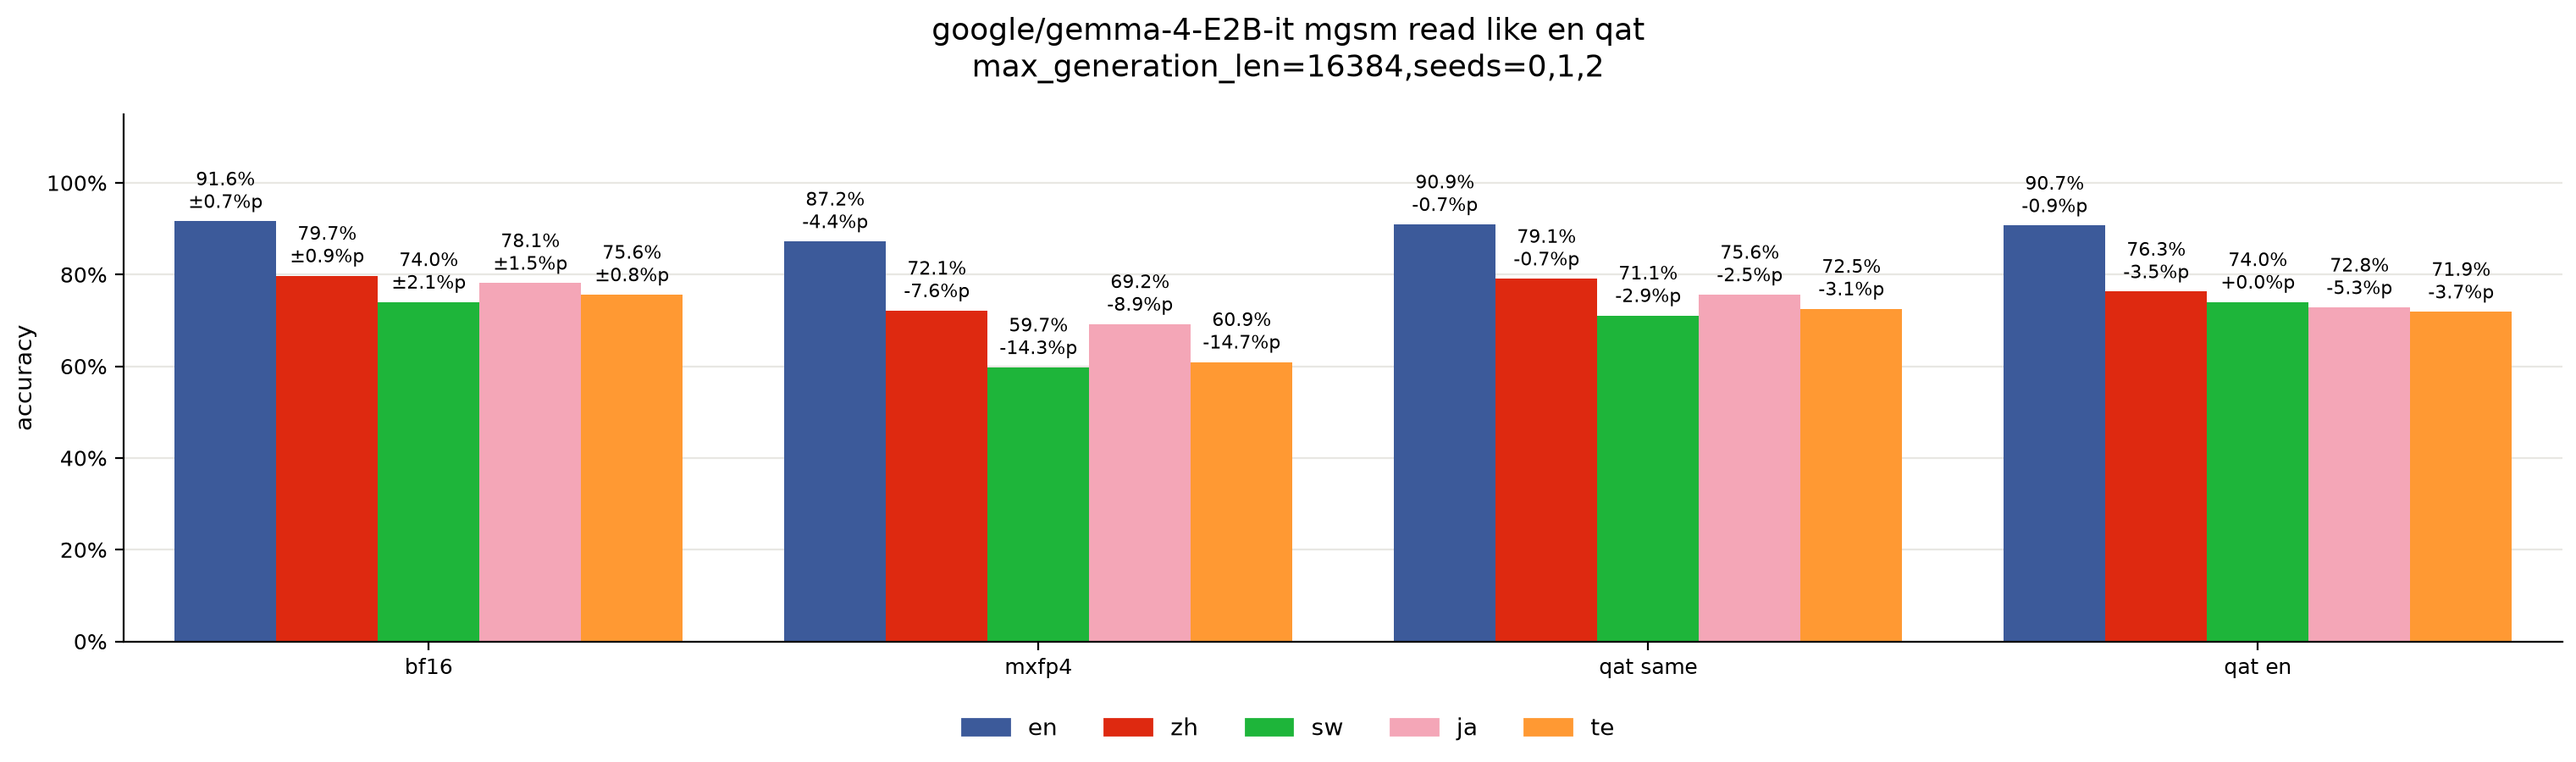
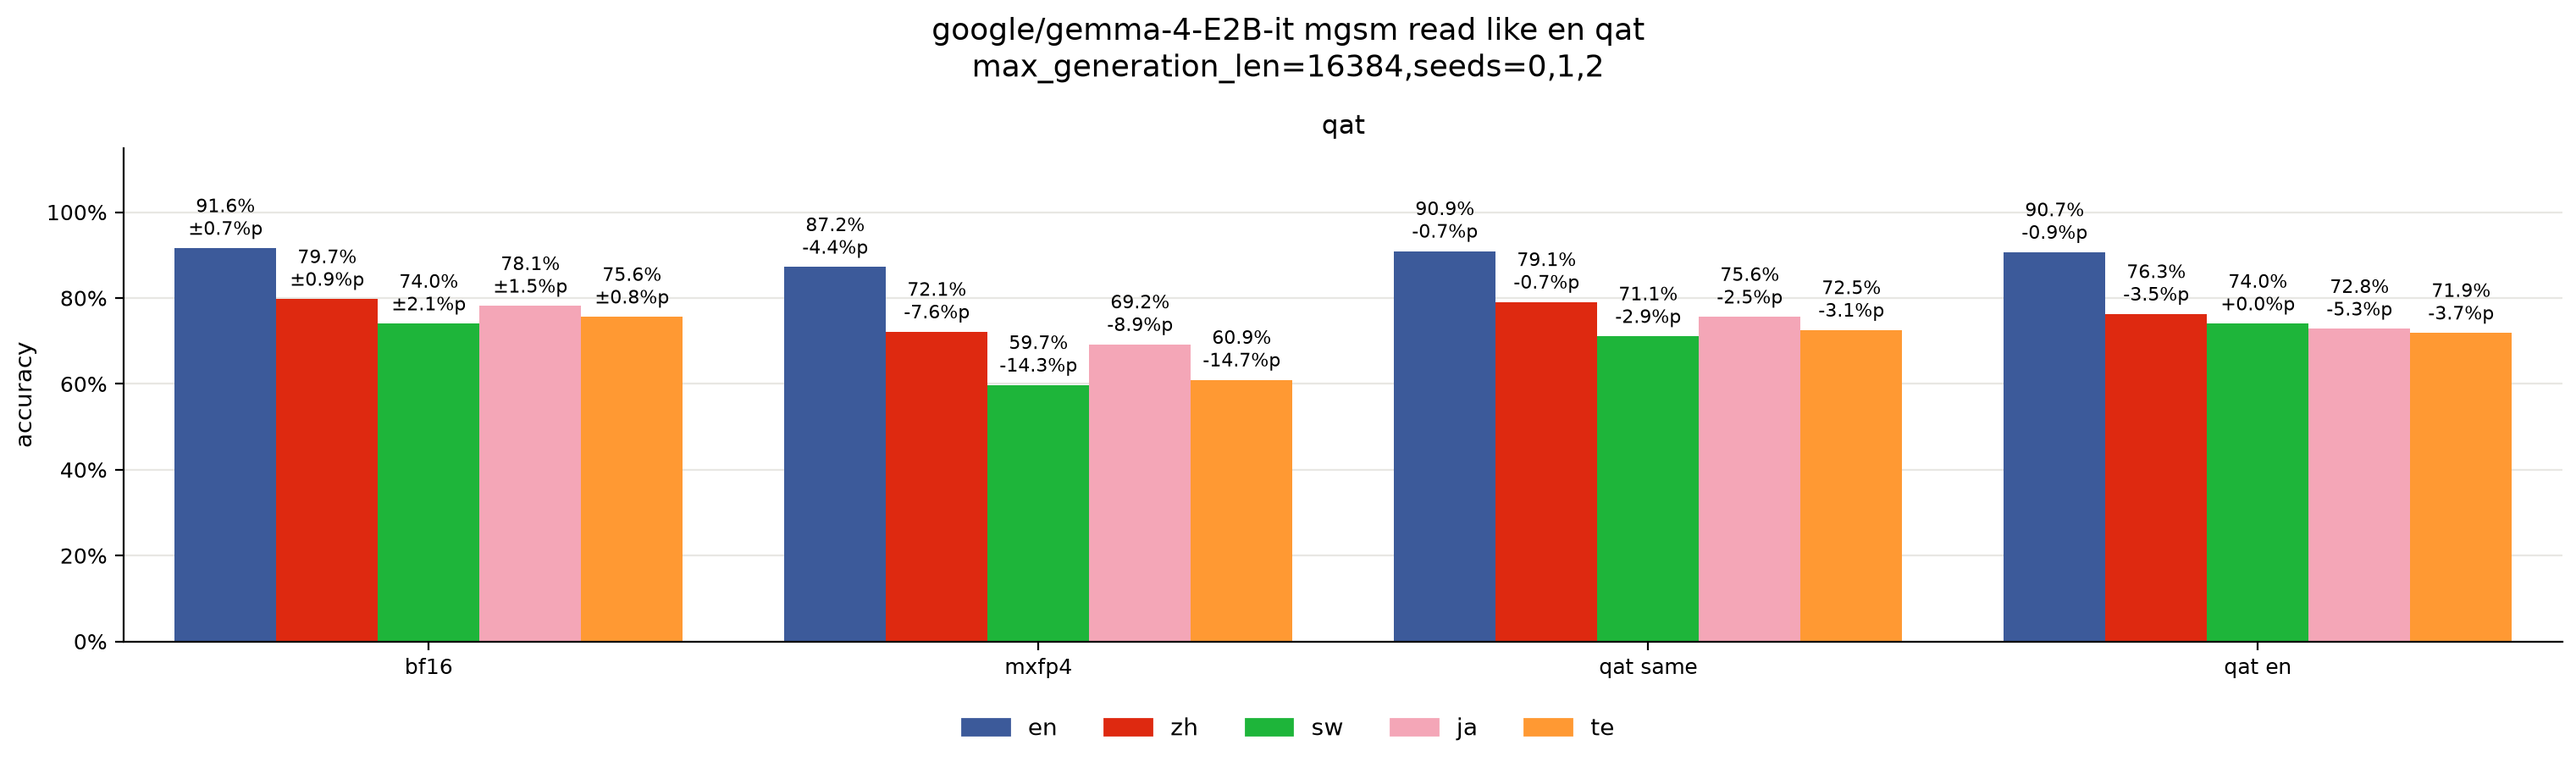
remove todo doc, and add panel title to read like en qat plot

diff --git a/plots/read_like_en_qat.py b/plots/read_like_en_qat.py
@@ -43,6 +43,7 @@ def main() -> None:
     plot_bars(ax, list(targets), groups)
     ax.set_ylim(0, 1.15)
     ax.set_ylabel("accuracy")
+    ax.set_title("qat")
     ax.grid(axis="y", color="#e8e7e3", linewidth=0.8)
     ax.set_axisbelow(True)
     ax.yaxis.set_major_formatter(PercentFormatter(1, decimals=0))

diff --git a/README.md b/README.md
@@ -7,4 +7,3 @@
 ## docs
 
 - [results](docs/results.md) records setup, results of every experiment
-- [todo](docs/todo.md) lists remaining work
